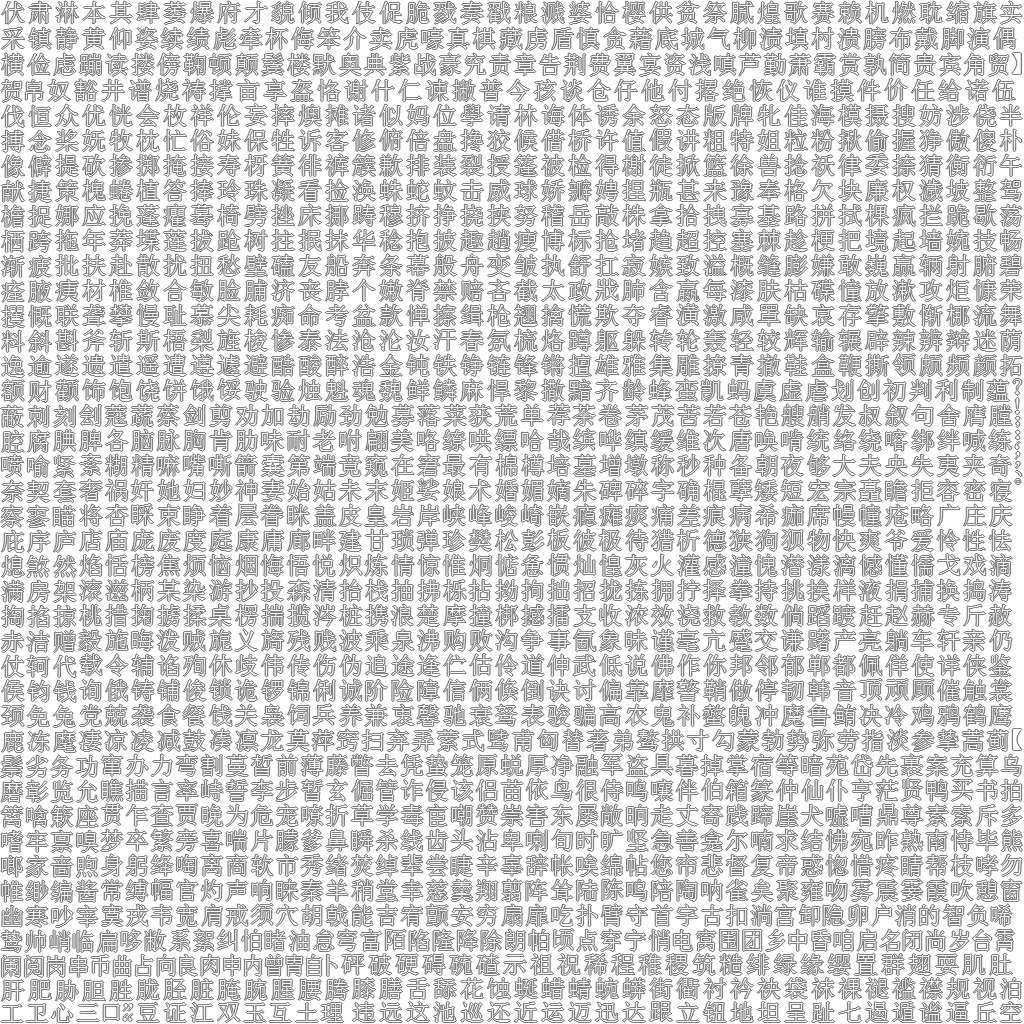
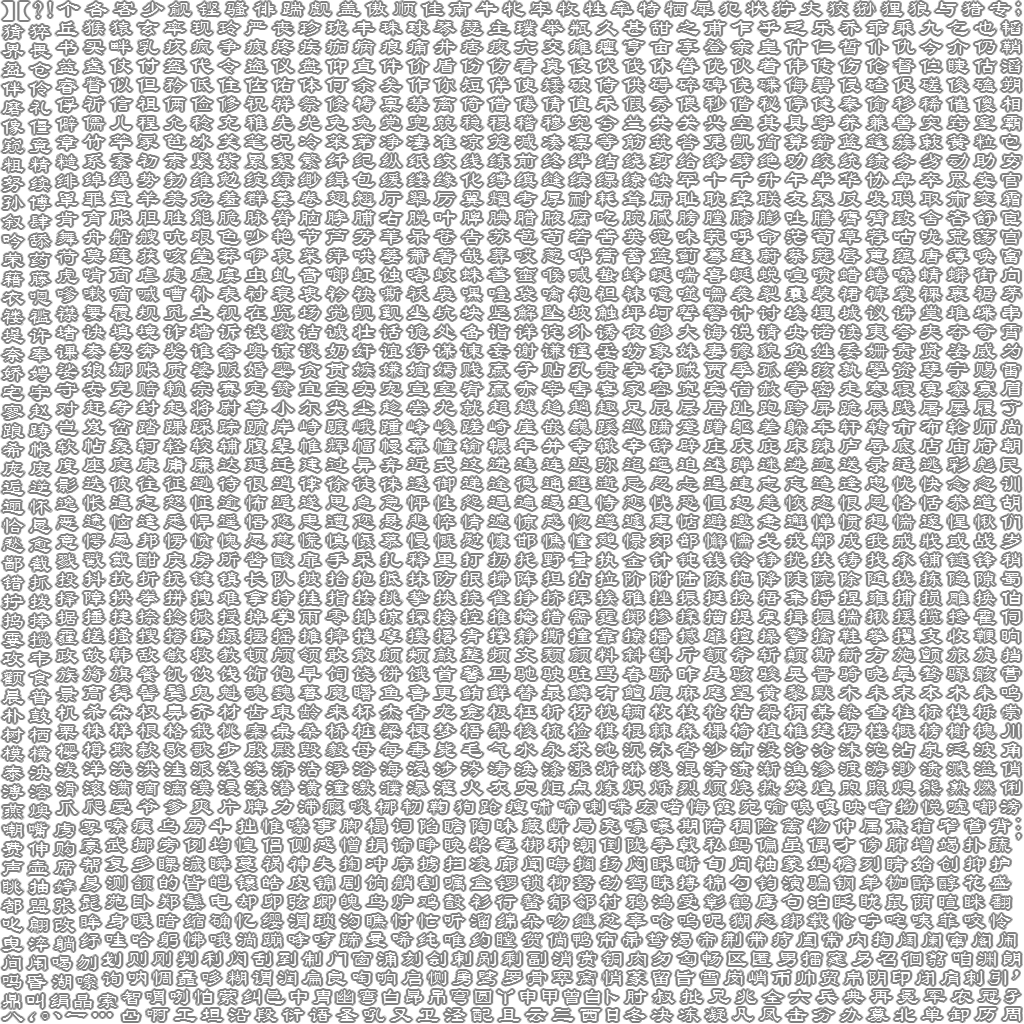
bmfont shader

diff --git a/game_engine/render/font/ge_font_bm.cpp b/game_engine/render/font/ge_font_bm.cpp
@@ -36,22 +36,12 @@ bool GEFontBM::init_effect( const char* fx_path )
 	if (effect_)
 	{
 		effect_->create_from_file(fx_path);
-
-		GERender* render = GERender::get_instance();
-		effect_->set_matrix("VIEW", render->get_view_matrix());
-		effect_->set_matrix("PROJECTION", render->get_proj_matrix());
 	}
 	return effect_ != NULL;
 }
 
 bool GEFontBM::update_effect()
 {
-	if (effect_)
-	{
-		GERender* render = GERender::get_instance();
-		effect_->set_matrix("VIEW", render->get_view_matrix());
-		effect_->set_matrix("PROJECTION", render->get_proj_matrix());
-	}
 	return true;
 }
 

diff --git a/game_engine/object/text/geo_text_bm.cpp b/game_engine/object/text/geo_text_bm.cpp
@@ -67,7 +67,6 @@ bool GEOTextBM::update_font()
 		assert(png_id == i);
 	}
 	effect_ = bm_font->get_effect();
-	if (effect_) effect_->set_matrix("WORLD", get_world_transform());
 	need_update_font_ = false;
 	return true;
 }
